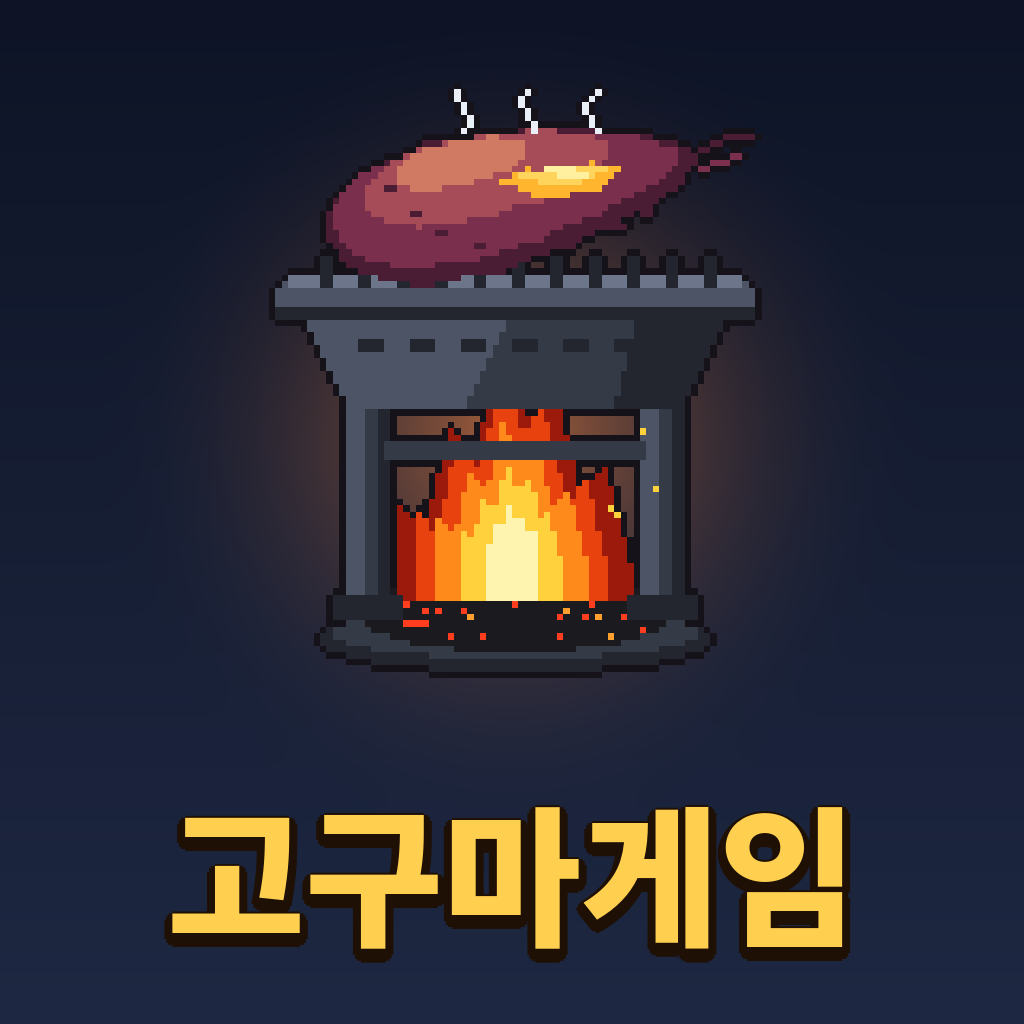
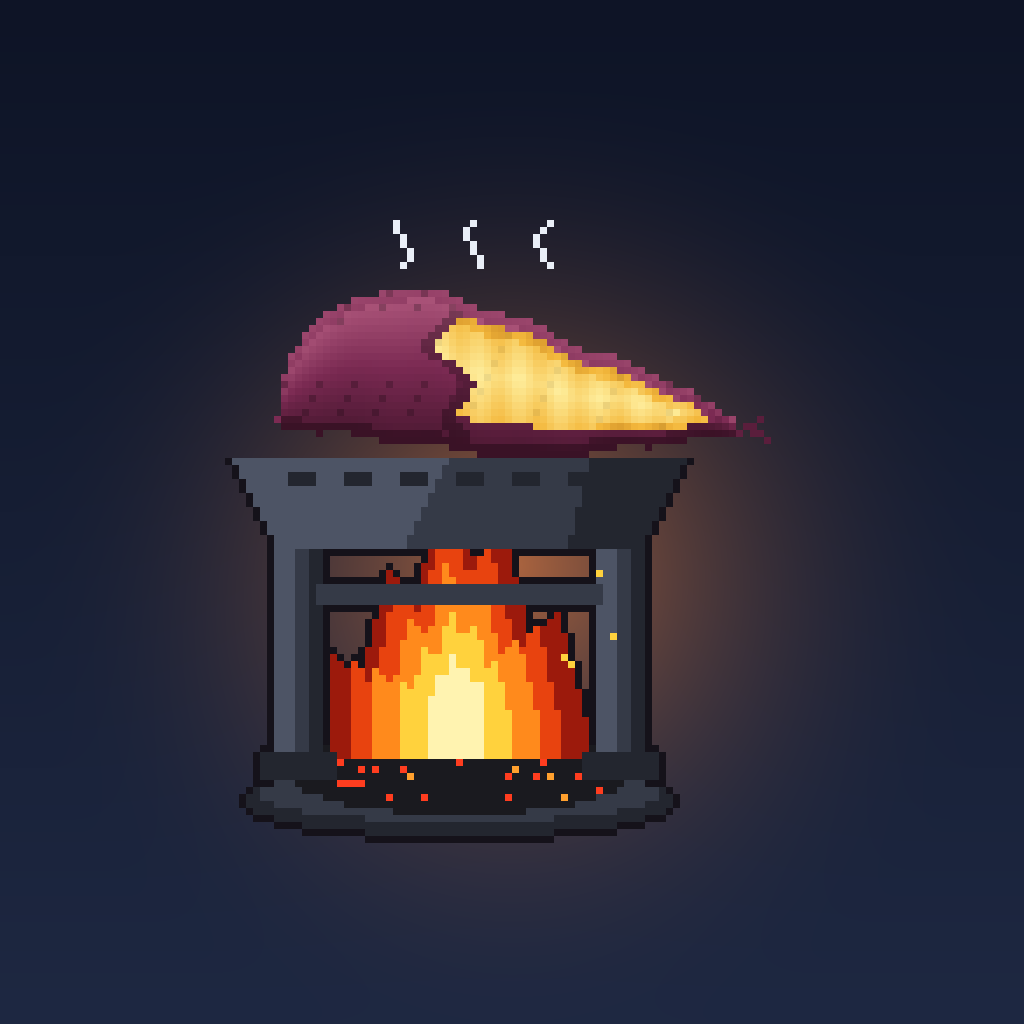
v1.59: 서리 불꽃 색 구분, 상점 이름, 앱 아이콘 교체, 닉네임 변경권·친구초대 안내, 관리자 변경권 지급
Claude-Session: https://claude.ai/code/session_016b9PzF7rDKC654oCwv9iGA

diff --git a/index.html b/index.html
@@ -225,7 +225,7 @@ html,body{touch-action:manipulation}
 
   <div class="top">
     <button class="sq" id="openMis" type="button"><span class="b">미션<i id="misBadge" hidden>0</i></span></button>
-    <div class="title"><b>고구마 굽기</b><small>방치형 군고구마 게임 · v1.58</small></div>
+    <div class="title"><b>고구마 굽기</b><small>방치형 군고구마 게임 · v1.59</small></div>
     <button class="sq" id="openPts" type="button"><span class="b">포인트</span></button>
   </div>
 
@@ -264,7 +264,7 @@ html,body{touch-action:manipulation}
 <section class="sheet" id="sheet" aria-hidden="true">
   <div class="grip"></div>
   <div class="stab" role="tablist"><b class="stitle" id="sTitle">상점</b>
-    <button role="tab" id="t-up" aria-selected="true" data-t="up">고구마 상점</button>
+    <button role="tab" id="t-up" aria-selected="true" data-t="up">상점</button>
     <button role="tab" id="t-sh" aria-selected="false" data-t="sh">포인트샵</button>
     <button role="tab" id="t-ms" aria-selected="false" data-t="ms">미션</button>
     <button role="tab" id="t-rk" aria-selected="false" data-t="rk">랭킹</button>
@@ -280,7 +280,7 @@ html,body{touch-action:manipulation}
   <div class="sp-in">
     <h2>고구마 굽기</h2>
     <div class="sp-art"><img class="f1" id="spA" alt=""><img class="f2" id="spB" alt=""></div>
-    <div class="sp-tag">방치형 군고구마 게임 · v1.58</div>
+    <div class="sp-tag">방치형 군고구마 게임 · v1.59</div>
     <p class="sp-msg">고구마를 터치해서 굽고,<br>화로를 키워 보세요.</p>
     <p class="sp-sub">3개월마다 새 시즌! 돈·레벨은 새로 시작하고<br>스킨과 아이템은 그대로 남아요.</p>
     <div class="sp-bar"><div></div></div>
@@ -290,8 +290,8 @@ html,body{touch-action:manipulation}
 </div>
 <div class="toast" id="toast"></div>
 
-<script src="config.js?v=158"></script>
-<script src="icons.js?v=158"></script>
+<script src="config.js?v=159"></script>
+<script src="icons.js?v=159"></script>
 <script src="https://cdn.jsdelivr.net/npm/@supabase/supabase-js@2.57.4/dist/umd/supabase.js"></script>
 <script>
 (function(){
@@ -473,7 +473,7 @@ html,body{touch-action:manipulation}
 
   function shopTabs(p,cur){
     var w=el("div","shoptabs");
-    [["up","고구마 상점"],["cash","캐쉬 상점"]].forEach(function(x){
+    [["up","상점"],["cash","캐쉬 상점"]].forEach(function(x){
       var b=el("button",null,x[1]);b.type="button";b.setAttribute("aria-pressed",x[0]===cur?"true":"false");
       b.addEventListener("click",function(){if(x[0]!==cur)openSheet(x[0])});w.appendChild(b);
     });
@@ -576,7 +576,7 @@ html,body{touch-action:manipulation}
   var sheetOpen=false;
   function openSheet(t){
     tab=t;sheetOpen=true;
-    var TT={up:"고구마 상점",cash:"캐쉬 상점",sh:"포인트샵",ms:"미션",rk:"랭킹",more:"더보기",cl:"클랜",me:"내정보",sk:"스킨",ev:"이벤트",fr:"친구",rl:"규정 · 안내"};$("sTitle").textContent=TT[t]||"";
+    var TT={up:"상점",cash:"캐쉬 상점",sh:"포인트샵",ms:"미션",rk:"랭킹",more:"더보기",cl:"클랜",me:"내정보",sk:"스킨",ev:"이벤트",fr:"친구",rl:"규정 · 안내"};$("sTitle").textContent=TT[t]||"";
     document.querySelectorAll(".stab button[data-t]").forEach(function(x){x.setAttribute("aria-selected",x.dataset.t===((t==="cl"||t==="me"||t==="sk"||t==="ev"||t==="fr"||t==="rl")?"more":t==="cash"?"up":t)?"true":"false")});
     $("sheet").classList.add("on");$("sheet").setAttribute("aria-hidden","false");$("scrim").classList.add("on");
     renderPanel();paintTop();paintPanel();
@@ -697,9 +697,9 @@ html,body{touch-action:manipulation}
   paintTop();
 })();
 </script>
-<script src="skins.js?v=158"></script>
-<script src="online.js?v=158"></script>
-<script src="social.js?v=158"></script>
+<script src="skins.js?v=159"></script>
+<script src="online.js?v=159"></script>
+<script src="social.js?v=159"></script>
 
 </body>
 </html>

diff --git a/online.js b/online.js
@@ -334,7 +334,7 @@
   function inviteCard(p,pr){
     var link=location.origin+location.pathname+"?ref="+pr.code;
     var c=el("div","card");c.appendChild(el("h4",null,"친구 초대"));
-    c.appendChild(el("div","muted","친구가 내 링크로 가입하면 친구도 나도 슈퍼장작 30분! (친구 최대 20명)"));
+    c.appendChild(el("div","muted","친구가 내 링크로 가입하면 친구도 나도 슈퍼장작 30분! 친구 3명을 초대할 때마다 랜덤 이벤트 스킨 7일권까지! (친구 최대 20명)"));
     var cnt=el("div","muted","불러오는 중…");cnt.style.margin="6px 0";c.appendChild(cnt);
     var r=el("div","row");
     var b1=el("button","btn","링크 복사");b1.type="button";b1.addEventListener("click",function(){copy(link)});r.appendChild(b1);
@@ -351,7 +351,7 @@
       redeem(ci.value).then(function(){ci.value="";G.refresh()}).catch(function(e){toast(errMsg(e))}).then(function(){ok.disabled=false});
     });r2.appendChild(ok);c.appendChild(r2);
     p.appendChild(c);
-    rpc("gogu_referral_my").then(function(m){cnt.textContent="내가 초대한 친구 "+m.invited+" / "+m.max+"명"+(m.used?" · 초대 코드 사용함":"")}).catch(function(){cnt.textContent=""});
+    rpc("gogu_referral_my").then(function(m){cnt.textContent="내가 초대한 친구 "+m.invited+" / "+m.max+"명"+(m.invited<m.max?" · 스킨 7일권까지 "+(3-m.invited%3)+"명":"")+(m.used?" · 초대 코드 사용함":"")}).catch(function(){cnt.textContent=""});
   }
 
   /* ---------- 내정보 탭 ---------- */
@@ -371,7 +371,8 @@
     var sv=el("button","btn","변경");sv.type="button";sv.addEventListener("click",function(){
       rpc("gogu_set_nickname",{p_name:inp.value}).then(function(n){pr.nickname=n;cache={};toast("닉네임을 바꿨어요");G.refresh()}).catch(function(e){toast(errMsg(e))});
     });r.appendChild(sv);c.appendChild(r);
-    c.appendChild(el("div","muted","닉네임은 한 번만 바꿀 수 있어요 (다음 변경은 준비 중)"));c.lastChild.style.marginTop="6px";p.appendChild(c);
+    var nn=el("div","muted","닉네임은 한 번만 바꿀 수 있어요. 이후에는 닉네임 변경권으로 바꿀 수 있어요 (변경권은 준비 중)");nn.style.marginTop="6px";c.appendChild(nn);p.appendChild(c);
+    rpc("gogu_nick_info").then(function(i){if(i&&i.tickets>0)nn.textContent="닉네임 변경권 "+i.tickets+"장 보유 중이에요. 바꾸면 1장이 사라져요.";else if(i&&!i.changed)nn.textContent="닉네임은 한 번 무료로 바꿀 수 있어요. 이후에는 변경권이 필요해요. 욕설·읽기 어려운 말은 쓸 수 없어요."}).catch(function(){});
 
     var c2=el("div","card");c2.appendChild(el("h4",null,"내 코드 (운영자 선물 받을 때 알려주세요)"));
     var r2=el("div","row");r2.appendChild(el("span","codebox",pr.code));

diff --git a/admin.html b/admin.html
@@ -118,6 +118,14 @@ button.danger{background:var(--red)}.wrap2{flex-wrap:wrap}.wrap2>*{flex:1 1 45%}
         <div class="muted">붕어빵 코드(BUNGEOPPANG · 붕어빵)를 쓴 사람, 친구 초대 총 건수와 많이 초대한 사람 순위가 보여요.</div>
       </div>
       <div class="card">
+        <label for="ntCode">닉네임 변경권 지급 (유저 코드)</label>
+        <input id="ntCode" placeholder="GOGU-XXXX-XXXX">
+        <input id="ntN" type="number" min="1" max="20" value="1">
+        <div class="row"><button id="ntGo" type="button">지급하기</button></div>
+        <div id="ntRes" style="margin-top:8px"></div>
+        <div class="muted">결제 연결 전에는 구매 신청을 확인한 뒤 여기서 직접 지급해요. 받은 유저는 내정보에서 닉네임을 다시 바꿀 수 있어요 (1장 = 1회).</div>
+      </div>
+      <div class="card">
         <label for="rwSeason">시즌 종료 보상 (시즌 번호)</label>
         <input id="rwSeason" type="number" min="0" placeholder="예: 1">
         <div class="row"><button id="rwView" class="ghost" type="button">미리보기</button><button id="rwGo" type="button">지급하기</button></div>
@@ -314,6 +322,10 @@ button.danger{background:var(--red)}.wrap2{flex-wrap:wrap}.wrap2>*{flex:1 1 45%}
       (r.top_inviters||[]).forEach(function(x){var d=mk("div");d.appendChild(mk("span",null,"[초대왕] "+x.nick+" · "+x.n+"명"));w.appendChild(d)});
       out("pmRes","붕어빵 코드 사용 "+(r.promo||[]).length+"명 · 친구 초대 "+r.referrals+"건","ok");
     }).catch(function(e){out("pmRes","실패: "+em(e),"bad")});
+  });
+  $("ntGo").addEventListener("click",function(){
+    var c=$("ntCode").value.trim(),n=parseInt($("ntN").value,10)||1;if(!c){out("ntRes","유저 코드를 넣어 주세요","bad");return}
+    rpc("gogu_admin_give_nick_ticket",{p_code:c,p_n:n}).then(function(nm){out("ntRes",nm+" 님께 변경권 "+n+"장을 드렸어요","ok")}).catch(function(e){out("ntRes","실패: "+em(e),"bad")});
   });
   $("rwView").addEventListener("click",function(){reward(false)});
   $("rwGo").addEventListener("click",function(){reward(true)});

diff --git a/skins.js b/skins.js
@@ -65,7 +65,7 @@
       {id:"skin_f_cyan",name:"번개 불꽃",tier:"paid",pal:["#06062e","#00d4ff","#f4ffff"]},
       {id:"skin_f_lime",name:"먹구름 불꽃",tier:"paid",pal:["#101018","#5a5a70","#d0d0e0"]},
       {id:"skin_f_sunset",name:"노을 불꽃",tier:"free",pal:["#4a0a2a","#ff6a3a","#ffe08a"],vert:true},
-      {id:"skin_f_ice",name:"서리 불꽃",tier:"paid",pal:["#1f3a78","#5a9aff","#e8f2ff"]},
+      {id:"skin_f_ice",name:"서리 불꽃",tier:"paid",pal:["#46646e","#cfeeec","#ffffff"]},
       {id:"skin_f_toxic",name:"독성 불꽃",tier:"paid",pal:["#1a3a00","#5ae000","#e8ff7a"]},
       {id:"skin_f_royal",name:"로열 불꽃",tier:"event",pal:["#2a0a4a","#e0a81a","#fff4c0"]},
       {id:"skin_f_prism",name:"프리즘 불꽃",tier:"event",rainbow:true}
@@ -285,7 +285,7 @@
   function tabSkin(p){
     var el=G.el;
     var from=G.skFrom||"more";
-    var b=el("button","cbtn ghost back",from==="up"?"← 고구마 상점":from==="cash"?"← 캐쉬 상점":"← 더보기");b.type="button";
+    var b=el("button","cbtn ghost back",from==="up"?"← 상점":from==="cash"?"← 캐쉬 상점":"← 더보기");b.type="button";
     b.addEventListener("click",function(){PV={};G.skFrom=null;G.openSheet(from)});p.appendChild(b);
     if(!ready){p.appendChild(el("div","muted","불러오는 중…"));return}
     var sel=equipped(),cm=combo(),previewing=Object.keys(PV).some(function(x){return PV[x]!==sel[x]});
